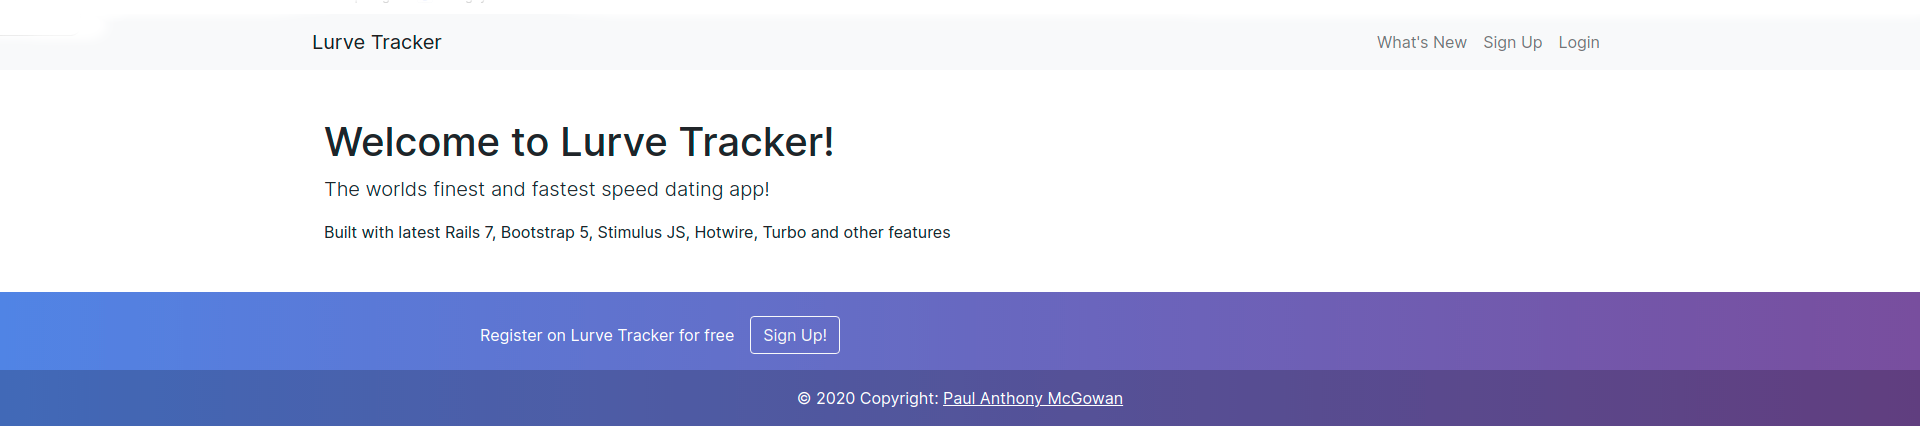
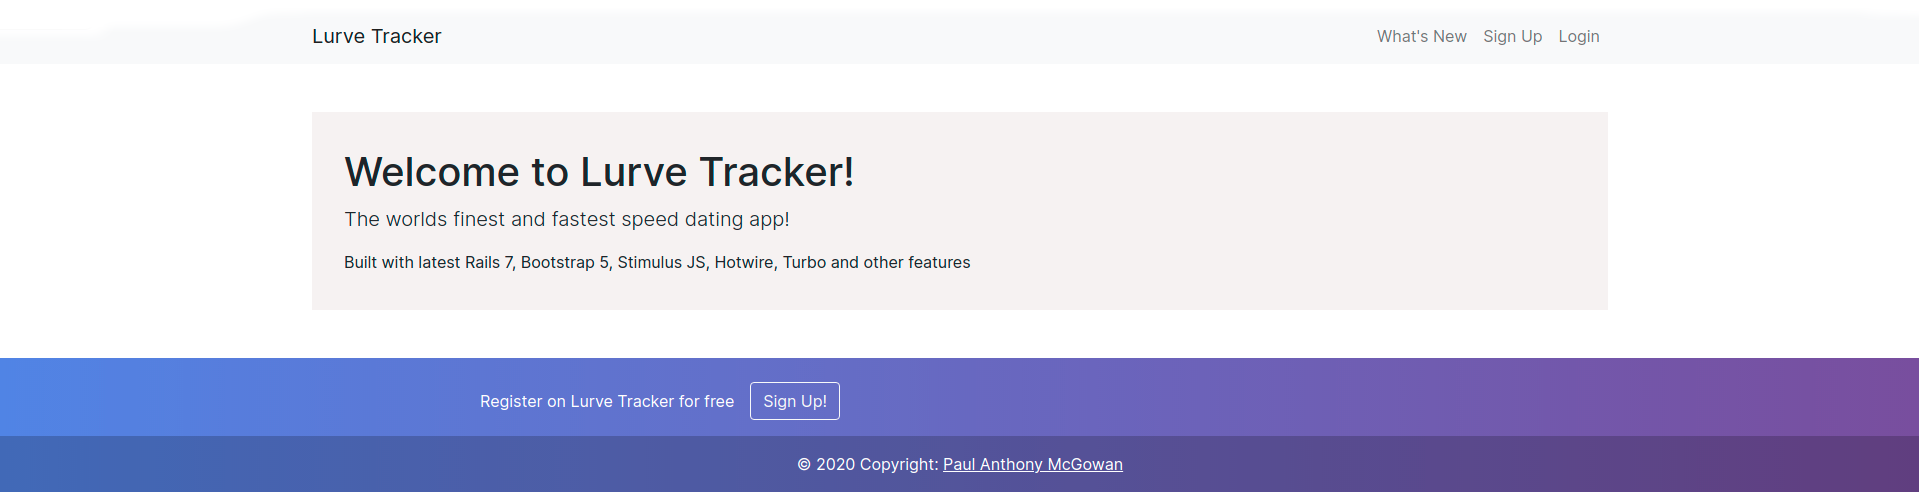
Extra Styles

diff --git a/app/assets/stylesheets/application.scss b/app/assets/stylesheets/application.scss
@@ -1,7 +1,3 @@
-// $navbar-default-bg: #312312;
-// $light-orange: #ff8c00;
-// $navbar-default-color: $light-orange;
-
 @import "font-awesome-sprockets";
 @import "font-awesome";
 @import "bootstrap";
@@ -13,7 +9,6 @@
     margin-right: 0;
   }
 }
-
 // Masquerade alert shouldn't have a bottom margin
 body > .alert {
   margin-bottom: 0;
@@ -26,6 +21,15 @@ body > .alert {
   }
 }
 
+.section-front {
+  margin-bottom:30px;
+  border: solid 2px #e8e8e8;
+
+}
+body > main > div > section > div.container > div > div:nth-child(3) > div > div.card-action > button > a,
+body > main > div > section > div.container > div > div:nth-child(2) > div > div.card-action > button > a {
+  color:white;
+}
 .unread-announcements:before {
   -moz-border-radius: 50%;
   -webkit-border-radius: 50%;
@@ -39,5 +43,34 @@ body > .alert {
   height: 8px;
   width: 8px;
   margin-right: 6px;
+}
+.jumbotron {
+  background:#f5f2f2;
+  padding: 20px;
+}
+#slides {
+  position: relative;
+  height: 400px;
+  padding: 0px;
+  margin: 0px;
+  list-style-type: none;
+}
+.slide {
+  position: absolute;
+  left: 0px;
+  top: 0px;
+  width: 100%;
+  height: 100%;
+
+  font-size: 40px;
+  //padding: 40px;
+  box-sizing: border-box;
+  background: #333;
+  color: #fff;
+  transition: opacity 1s;
+}
+.showing {
+  opacity: 1;
+  z-index: 2;
 }
 
